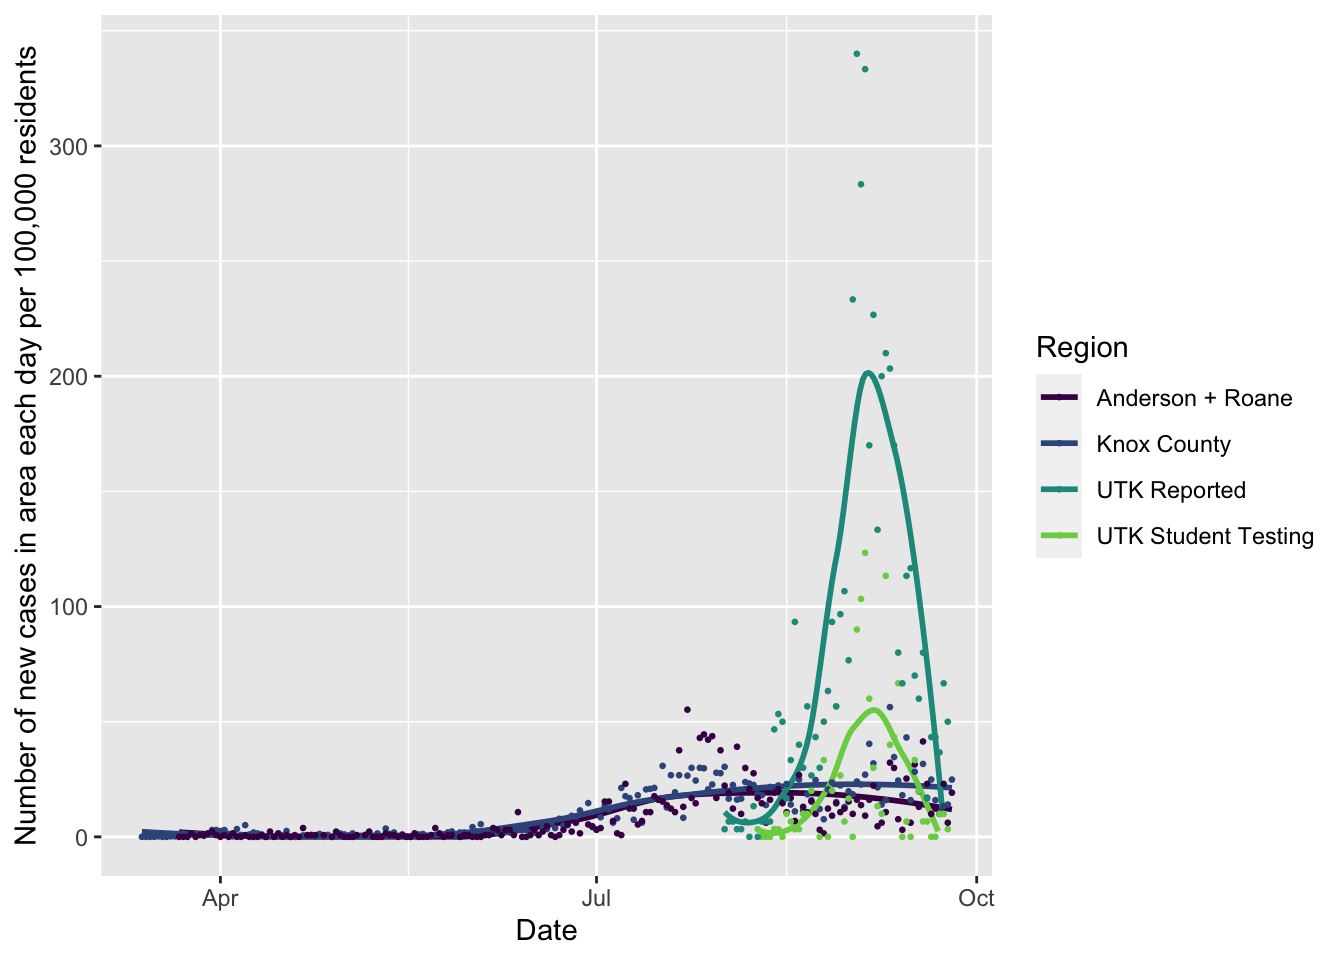
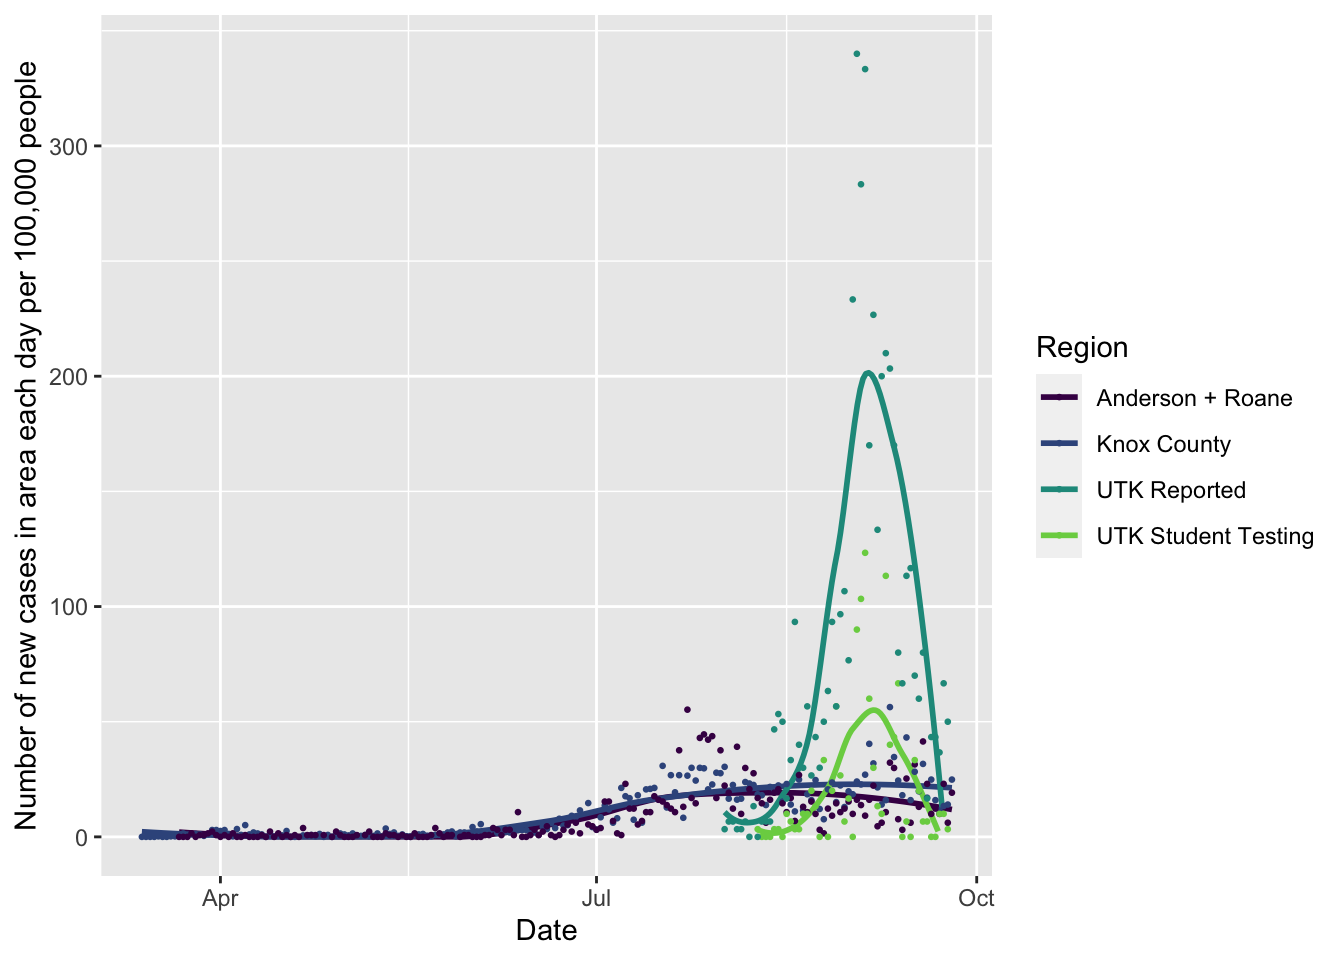
updating site

Changed region(s): [[0.0, 0.0312, 0.0312, 0.875]]

diff --git a/docs/covid.html b/docs/covid.html
@@ -426,7 +426,7 @@ $(document).ready(function () {
 <li>Info about cases at <a href="#ut">U. of Tennessee, Knoxville</a> (using public information only)</li>
 <li><a href="#webcams">Webcams</a> showing activity at local sites, though not quite at the resolution to point to mask usage or not</li>
 </ul>
-<p>The following plots are created in R using data from <a href="https://covid19datahub.io" class="uri">https://covid19datahub.io</a> (Guidotti, E., Ardia, D., (2020), “COVID-19 Data Hub”, Working paper, doi: 10.13140/RG.2.2.11649.81763), as well as information from Google and the <a href="https://www.tn.gov/health/cedep/ncov/data/downloadable-datasets.html">state of Tennessee dataset page</a> and plotting and analysis using the <code>forecast</code>, <code>ggplot2</code>, <code>reshape2</code>, and <code>dplyr</code> packages. Plots created on 2020-09-26 10:38:28. I use <code>ggplot2</code>’s <code>geom_smooth()</code> function for the smoothed regression plots with its default formula, which uses loess smoothing for this many points. This is not based on a model of disease spread or anything similarly sophisticated, just drawing a smooth curve to summarize noisy points (see <a href="https://www.itl.nist.gov/div898/handbook/pmd/section1/pmd144.htm">here</a> for more details).</p>
+<p>The following plots are created in R using data from <a href="https://covid19datahub.io" class="uri">https://covid19datahub.io</a> (Guidotti, E., Ardia, D., (2020), “COVID-19 Data Hub”, Working paper, doi: 10.13140/RG.2.2.11649.81763), as well as information from Google and the <a href="https://www.tn.gov/health/cedep/ncov/data/downloadable-datasets.html">state of Tennessee dataset page</a> and plotting and analysis using the <code>forecast</code>, <code>ggplot2</code>, <code>reshape2</code>, and <code>dplyr</code> packages. Plots created on 2020-09-26 10:46:55. I use <code>ggplot2</code>’s <code>geom_smooth()</code> function for the smoothed regression plots with its default formula, which uses loess smoothing for this many points. This is not based on a model of disease spread or anything similarly sophisticated, just drawing a smooth curve to summarize noisy points (see <a href="https://www.itl.nist.gov/div898/handbook/pmd/section1/pmd144.htm">here</a> for more details).</p>
 <h2 id="cases">
 Cases
 </h2>
@@ -442,12 +442,12 @@ Cases
 <p>Information from the last two datasets comes from the hard work of Alex Zukowski, who requests the testing data and who aggregates the reported data. Zukowski, Taylor A. “University of Tennessee, Knoxville COVID-19 Dataset.” COVID-19 in The University of Tennessee, Knoxville, 2020, sites.google.com/view/utk-covid19/data.</p>
 <p>For many of these plots, I am now showing the smoothed curves rather than line connecting the raw points per day – these can jump around quite a bit (such as for things like tests per day). However, where the loess smoothing seems to be obscuring rather than clarifying, I just plot the line connecting the points.</p>
 <p><img src="covid_files/figure-html/plotsA-1.png" width="672" /></p>
-<p>Here are the same plots, but normalized so it’s per 100,000 residents in each area per day (making it easier to see patterns in less populous areas):</p>
+<p>Here are the same plots, but normalized so it’s per 100,000 people in each area per day (making it easier to see patterns in less populous areas):</p>
 <p><img src="covid_files/figure-html/plotsA2-1.png" width="672" /></p>
 <h2 id="testing">
 Testing
 </h2>
-<p>Testing is a key part of getting a handle on the pandemic. Here are Knox County, Oak Ridge’s counties (Anderson and Roane), and all the East TN counties combined (the same ones used for regional hospital reporting for bed availability). This plots shows the daily number of tests per 100,000 residents. It also includes testing done by UT student health, using data compiled by Alex Zukowski (Zukowski, Taylor A. “University of Tennessee, Knoxville COVID-19 Dataset.” COVID-19 in The University of Tennessee, Knoxville, 2020, sites.google.com/view/utk-covid19/data).</p>
+<p>Testing is a key part of getting a handle on the pandemic. Here are Knox County, Oak Ridge’s counties (Anderson and Roane), and all the East TN counties combined (the same ones used for regional hospital reporting for bed availability). This plots shows the daily number of tests per 100,000 residents. It also includes testing done by UT student health, using data compiled by Alex Zukowski (Zukowski, Taylor A. “University of Tennessee, Knoxville COVID-19 Dataset.” COVID-19 in The University of Tennessee, Knoxville, 2020, sites.google.com/view/utk-covid19/data). For the UT data, I am plotting against number of students (30,000).</p>
 <p><img src="covid_files/figure-html/plotsB2-1.png" width="672" /></p>
 <p>Another way to look at testing (or disease spread) is to look at the proportion of positive tests (“positivity rate”): they can go up if a greater proportion of symptomatic people are being tested and/or if the frequency of the disease is increasing. Updated WHO guidelines recommend testing should be 5% positive or lower (black line). Remember that the solid lines are smoothed across days but may still reflect recent points more so than a seven day average would.</p>
 <p><img src="covid_files/figure-html/plotsB3-1.png" width="672" /></p>
